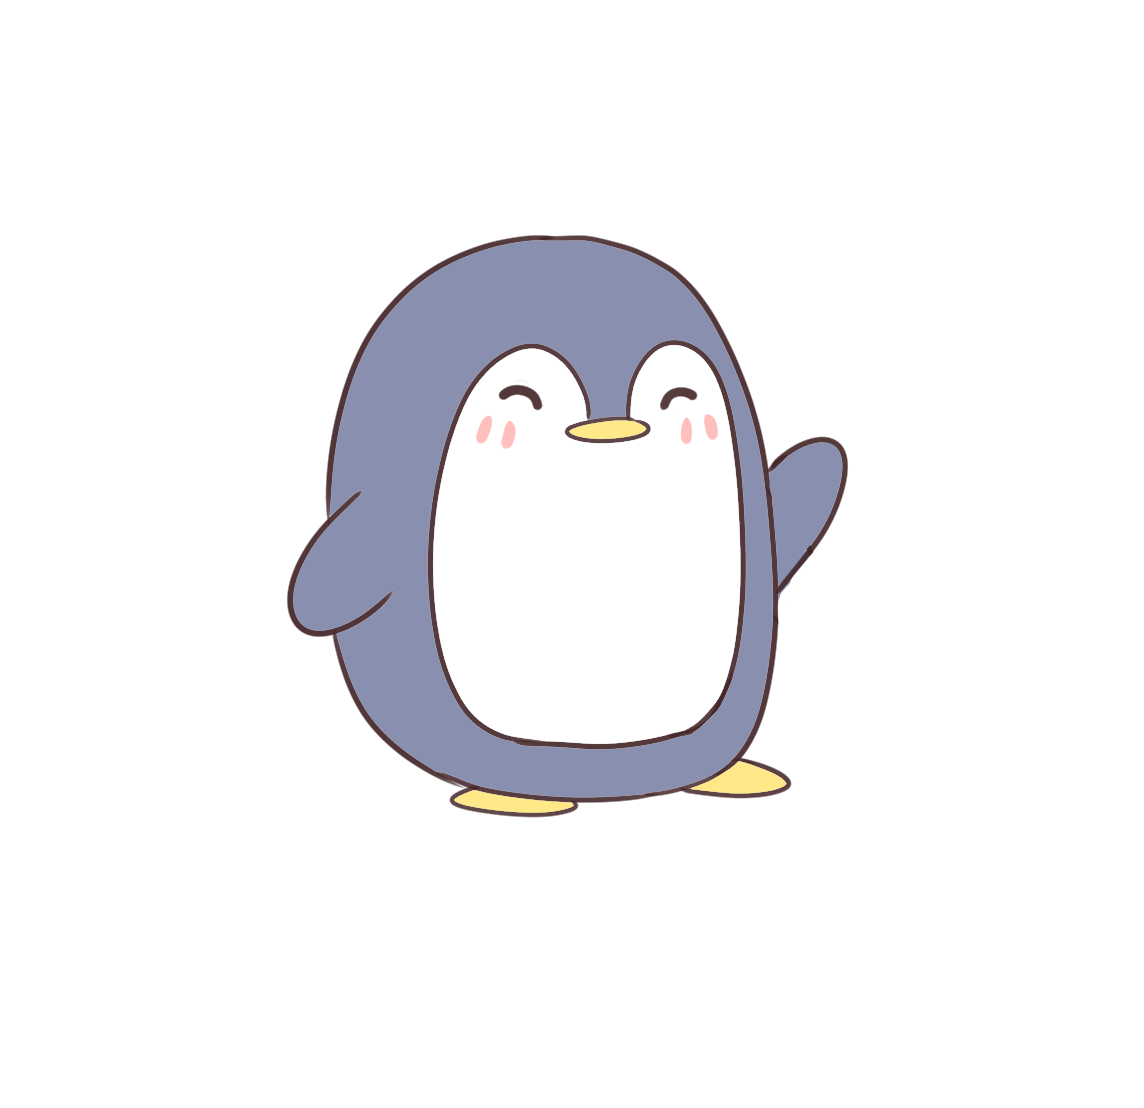
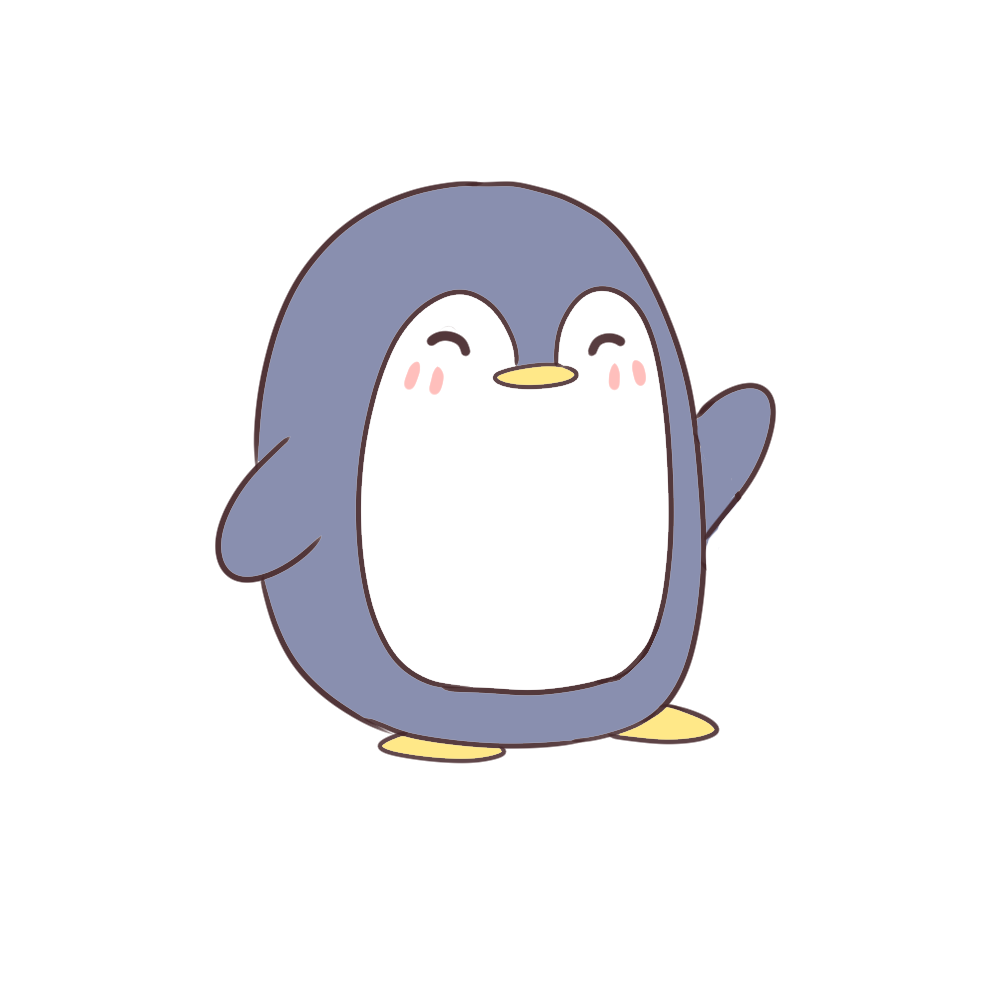
working

Changed region(s): [[0.217, 0.155, 0.775, 0.775]]

diff --git a/lib/Test Files/DynamicPenguinTest.dart b/lib/Test Files/DynamicPenguinTest.dart
@@ -1,0 +1,221 @@
+import 'package:flutter/cupertino.dart';
+import 'package:flutter/material.dart';
+import 'dart:math' as math;
+
+class DynamicPenguinTest extends StatefulWidget {
+  DynamicPenguinTestState createState() => DynamicPenguinTestState();
+}
+
+final double REAL_PENGU_IMAGE_SIZE = 1000;
+String currentImage = "assets/images/firecracker.png";
+double penguinSize = 300;
+double cosmeticSize = 250;
+bool visibility = true;
+GlobalKey _penguinKey = new GlobalKey(), _stackKey = new GlobalKey();
+List<PositionCosmetics> leftArmInfo = new List<PositionCosmetics>();
+
+class DynamicPenguinTestState extends State<DynamicPenguinTest>
+    with TickerProviderStateMixin {
+  AnimationController _animationController;
+  Animation _animation;
+
+  bool buildPengu = false;
+  AnimationController _moveController;
+
+  @override
+  void initState() {
+    super.initState();
+
+    _animationController =
+        AnimationController(vsync: this, duration: Duration(seconds: 7));
+    _animation = IntTween(begin: 0, end: 3).animate(_animationController);
+
+    _animationController.repeat().whenComplete(() {
+      // put here the stuff you wanna do when animation completed!
+    });
+
+    double armLowAngle = -math.pi * 2 / 10;
+    double armHighAngle = -math.pi * 2 / 16;
+    //0
+    leftArmInfo.add(PositionCosmetics(262, 528, armLowAngle, cosmeticSize));
+    //1
+    leftArmInfo.add(PositionCosmetics(239, 507, armHighAngle, cosmeticSize));
+    //2
+    leftArmInfo.add(PositionCosmetics(262, 528, armLowAngle, cosmeticSize));
+    //3
+    leftArmInfo.add(PositionCosmetics(239, 507, armHighAngle, cosmeticSize));
+    //4
+    leftArmInfo.add(PositionCosmetics(262, 528, armLowAngle, cosmeticSize));
+    //5
+    leftArmInfo.add(PositionCosmetics(262, 528, armLowAngle, cosmeticSize));
+    //6
+    leftArmInfo.add(PositionCosmetics(262, 528, armLowAngle, cosmeticSize));
+    //7
+    leftArmInfo.add(PositionCosmetics(262, 528, armLowAngle, cosmeticSize));
+    //8
+    leftArmInfo.add(PositionCosmetics(262, 528, armLowAngle, cosmeticSize));
+    //9
+    leftArmInfo.add(PositionCosmetics(262, 528, armLowAngle, cosmeticSize));
+  }
+
+  @override
+  Widget build(BuildContext context) {
+    // TODO: implement build
+    return Scaffold(
+      appBar: AppBar(
+        title: Text("hehexd this is so troll"),
+      ),
+      body: Stack(
+        key: _stackKey,
+        fit: StackFit.expand,
+        children: [
+          Align(
+            alignment: Alignment.bottomCenter,
+            child: Row(
+              children: [
+                FlatButton(
+                  onPressed: () {
+                    buildPengu = false;
+                    setState(() {});
+
+                    buildPengu = true;
+                    setState(() {});
+                  },
+                  child: Text("Draw"),
+                ),
+                FlatButton(
+                  onPressed: () {
+/*                      if(currentImage == "assets/images/firecracker.png") {
+                        currentImage = "assets/images/koala.png";
+                        setState(() {
+
+                        });
+                      } else {
+                        currentImage = "assets/images/firecracker.png";
+                        setState(() {
+
+                        });
+                      }*/
+
+                    if (penguinSize == 100) {
+                      penguinSize = 200;
+                    } else {
+                      penguinSize = 100;
+                    }
+                    setState(() {});
+                  },
+                  child: Text("dab"),
+                ),
+                FlatButton(
+                  onPressed: () {
+                    visibility = !visibility;
+                    setState(() {});
+                  },
+                  child: Text("Toggle"),
+                ),
+              ],
+            ),
+          ),
+          Container(
+            child: Stack(
+              children: [
+                AnimatedPositioned(
+                  duration: Duration(seconds: 3),
+                  width: penguinSize,
+                  height: penguinSize,
+                  key: _penguinKey,
+                  child: PenguinAnimate(animation: _animation),
+                )
+              ],
+            ),
+          ),
+          buildPengu
+              ? CosmeticAnimate(
+                  animation: _animation,
+                )
+              : Container()
+        ],
+      ),
+    );
+  }
+}
+
+class PenguinAnimate extends AnimatedWidget {
+  PenguinAnimate({@required Animation<int> animation})
+      : super(listenable: animation);
+
+  @override
+  Widget build(BuildContext context) {
+    final animation = super.listenable as Animation<int>;
+    // TODO: implement build
+    return AnimatedBuilder(
+        animation: animation,
+        builder: (BuildContext context, Widget child) {
+          String frame = animation.value.toString();
+          return Image.asset(
+            'assets/images/penguin${frame}.png',
+            gaplessPlayback: true,
+          );
+        });
+  }
+}
+
+class CosmeticAnimate extends AnimatedWidget {
+  CosmeticAnimate({@required Animation<int> animation})
+      : super(listenable: animation);
+
+  @override
+  Widget build(BuildContext context) {
+    final animation = super.listenable as Animation<int>;
+    // TODO: implement build
+    return AnimatedBuilder(
+      animation: animation,
+      builder: (BuildContext context, Widget child) {
+        return leftArmInfo[int.parse(animation.value.toString())]
+            .position(Image.asset(currentImage));
+      },
+    );
+  }
+}
+
+class PositionCosmetics {
+  double realX;
+  double realY;
+  double rotationAngle;
+  double size;
+
+  PositionCosmetics(this.realX, this.realY, this.rotationAngle, this.size);
+
+  Positioned position(Widget image) {
+    //locate penguin
+    RenderBox pengBox = _penguinKey.currentContext.findRenderObject();
+
+    //locate how much scaffold has been shifted
+    RenderBox scaffoldBox = _stackKey.currentContext.findRenderObject();
+
+    //x y coords of where to start drawing cosmetic = peng global x - offsetx, peng global y - offsety
+    Offset penguLocation = pengBox.localToGlobal(Offset(
+        -scaffoldBox.localToGlobal(Offset.zero).dx,
+        -scaffoldBox.localToGlobal(Offset.zero).dy));
+    print(penguLocation.dx.toString() + " " + penguLocation.dy.toString());
+
+    return Positioned(
+      //math to determine where to place cosmetic:
+      //1. locate ratio of where item is normally placed in 1000 x 1000 grid ex: 388/1000, 500/1000
+      //2. multiply by size of penguin
+      //3. subtract by half the size of cosmetic to center
+      left: (realX / REAL_PENGU_IMAGE_SIZE) * penguinSize +
+          penguLocation.dx -
+          size / 2,
+      top: (realY / REAL_PENGU_IMAGE_SIZE) * penguinSize +
+          penguLocation.dy -
+          size / 2,
+      width: size,
+      height: size,
+      child: Transform.rotate(
+        angle: rotationAngle,
+        child: image,
+      ),
+    );
+  }
+}

diff --git a/lib/SignInOrSignUp.dart b/lib/SignInOrSignUp.dart
@@ -1,7 +1,7 @@
 import 'dart:io';
 import 'package:FlutterFitnessApp/AnimationTest.dart';
 import 'package:FlutterFitnessApp/Login.dart';
-import 'package:FlutterFitnessApp/TestClass.dart';
+import 'package:FlutterFitnessApp/Test%20Files/DynamicPenguinTest.dart';
 import 'SignUpClasses/PromptAlphaCode.dart';
 import 'SignUpClasses/SignUp.dart';
 import 'package:firebase_auth/firebase_auth.dart';
@@ -245,7 +245,7 @@ class SignInOrSignUpState extends State<SignInOrSignUp> with TickerProviderState
     if (await FirebaseAuth.instance.currentUser() != null) {
       print("currently logged in.");
       Navigator.push(context,MaterialPageRoute(
-          builder: (context) => HomeScreen())
+          builder: (context) => DynamicPenguinTest())
       );
     } else {
       print("NOT logged in,");

diff --git a/lib/Test Files/TestClass.dart b/lib/Test Files/TestClass.dart
@@ -8,8 +8,8 @@ import 'package:flutter/material.dart';
 import 'package:intl/intl.dart';
 import 'package:table_calendar/table_calendar.dart';
 
-import 'Container Classes/CalorieEntryContainer.dart';
-import 'Container Classes/MyFoodsContainer.dart';
+import '../Container Classes/CalorieEntryContainer.dart';
+import '../Container Classes/MyFoodsContainer.dart';
 
 import 'package:http/http.dart' as http;
 

diff --git a/lib/Login.dart b/lib/Login.dart
@@ -1,7 +1,6 @@
 import 'dart:io';
 
 import 'package:FlutterFitnessApp/SignInOrSignUp.dart';
-import 'package:FlutterFitnessApp/TestClass.dart';
 import 'package:firebase_auth/firebase_auth.dart';
 import 'package:flutter/material.dart';
 import 'package:firebase_core/firebase_core.dart';
